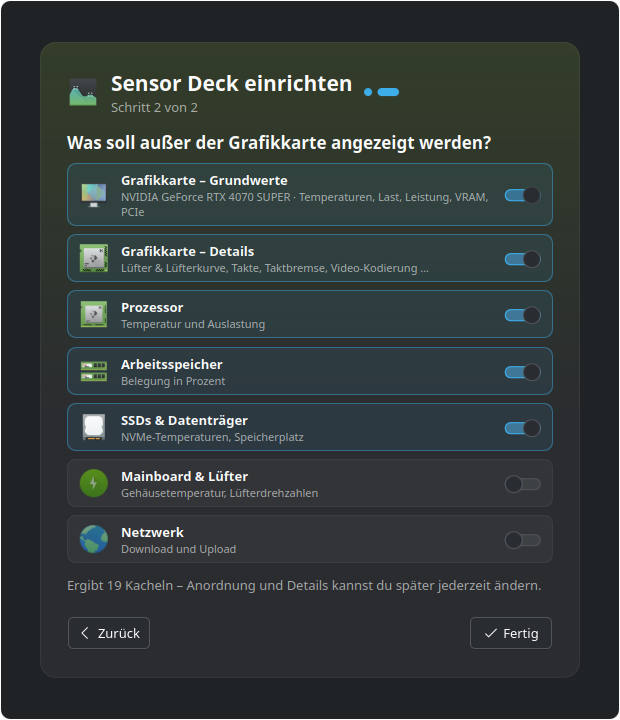
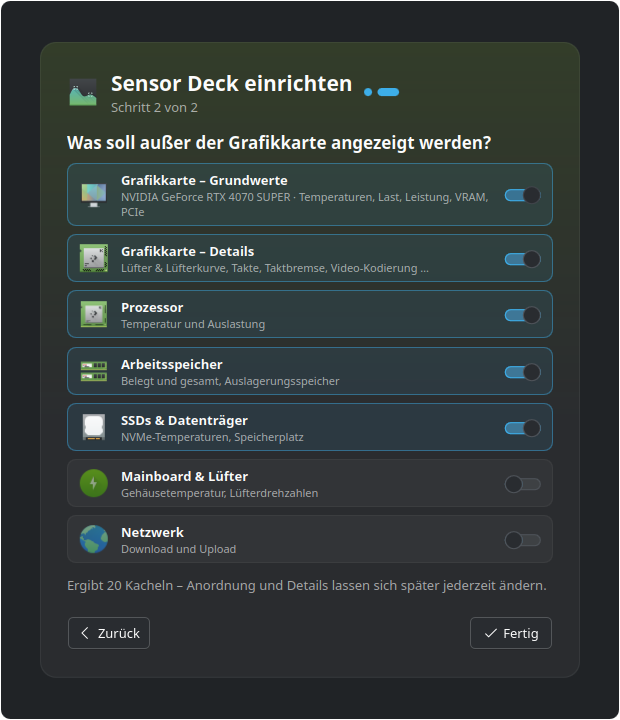
New screenshots; neutral wizard text, memory hint
- Screenshot rig simulates memory used/total, swap and the measured
  NVIDIA fan speeds; all eight README screenshots rendered again.
- Wizard: "Results in %1 tiles" still used the informal form in
  German, Spanish, Dutch and Polish (plural entries were missed).
- Wizard: memory hint "Usage in percent" → "Used and total, swap space".

Changed region(s): [[0.521, 0.7944, 0.8887, 0.825], [0.2452, 0.5194, 0.5516, 0.55]]

diff --git a/tools/screenshots/Demo.js b/tools/screenshots/Demo.js
@@ -25,6 +25,8 @@ function hwDiscover() {
         out.push(["GPU", "0000:05:00.0", "0x10de", "nvidia", "2", "1", "NVIDIA Corporation", "GA104 [GeForce RTX 3060 Ti]", ""].join(T));
     out.push(["NVME", "0000:03:00.0", "Samsung SSD 990 PRO 2TB"].join(T));
     out.push("GDDR6" + T + "1");
+    out.push(["NVFANS", "0", "2"].join(T));
+    if (multi) out.push(["NVFANS", "1", "2"].join(T));
     out.push(["DISTRO", "apt", "lm-sensors", "Demo"].join(T));
     out.push("LMTOOL" + T + "1");
     out.push("SENSORS");
@@ -86,6 +88,18 @@ function nvidiaStdout(keys) {
     return lines.join("\n");
 }
 
+// output of code/nvml-fans.py: measured fan speeds, two fans per card
+function nvmlFans() {
+    var T = "\t", out = [];
+    for (var i = 0; i < (multi ? 2 : 1); ++i) {
+        var pct = Math.round(gpu(i)["fan.speed"]);
+        var rpm = Math.round(pct * (i === 0 ? 31 : 28));
+        out.push(["FAN", i, 1, rpm + Math.round(j(8 + i, 12)), pct, pct].join(T));
+        out.push(["FAN", i, 2, rpm - 15 + Math.round(j(9 + i, 12)), pct, pct].join(T));
+    }
+    return out.join("\n") + "\n";
+}
+
 // output of code/pcie-info.sh for a card
 function pcieInfo(addr) {
     var second = multi && /05:00/.test(addr || "");
@@ -106,6 +120,10 @@ function sensor(id, german) {
     case "cpu/all/maximumTemperature": return { value: 61 + 9 * w(70, 0.5) + j(4, 1), unit: "°C", max: 100 };
     case "cpu/all/usage":              return { value: 32 + 22 * w(20, 1) + j(5, 6), unit: "%", max: 100 };
     case "memory/physical/usedPercent": return { value: 47 + 2 * w(200), unit: "%", max: 100 };
+    case "memory/physical/used":        return { value: 14.6 + 0.6 * w(200), unit: "GiB" };
+    case "memory/physical/total":       return { value: 31.3, unit: "GiB" };
+    case "memory/swap/used":            return { value: 0.3, unit: "GiB" };
+    case "memory/swap/total":           return { value: 8, unit: "GiB" };
     case "disk/all/usedPercent":        return { value: 63.4, unit: "%", max: 100 };
     case "network/all/download":        return { value: Math.max(0.1, 2.2 + 2.5 * w(15, 2) + j(6, 0.8)), unit: "MiB/s", max: 8 };
     case "network/all/upload":          return { value: Math.max(0.05, 0.35 + 0.25 * w(25) + j(7, 0.08)), unit: "MiB/s", max: 2 };

diff --git a/package/contents/ui/Hardware.js b/package/contents/ui/Hardware.js
@@ -226,7 +226,7 @@ function sensorSetupText(hw, translate) {
 var categories = [
     { key: "gpuDetails", label: tr("Graphics card – details"), hint: tr("Fans & fan curve, clocks, throttling, video encoding …"), icon: "preferences-system-performance", def: true },
     { key: "cpu",        label: tr("Processor"),            hint: tr("Temperature and usage"), icon: "cpu", def: true },
-    { key: "ram",        label: tr("Memory"),      hint: tr("Usage in percent"), icon: "memory", def: true },
+    { key: "ram",        label: tr("Memory"),      hint: tr("Used and total, swap space"), icon: "memory", def: true },
     { key: "storage",    label: tr("SSDs & drives"),   hint: tr("NVMe temperatures, disk space"), icon: "drive-harddisk", def: true },
     { key: "board",      label: tr("Mainboard & fans"),   hint: tr("Case temperature, fan speeds"), icon: "preferences-system-power-management", def: false },
     { key: "network",    label: tr("Network"),             hint: tr("Download and upload"), icon: "applications-internet", def: false },

diff --git a/tools/screenshots/patch.py b/tools/screenshots/patch.py
@@ -53,6 +53,8 @@ edit("NvidiaProvider.qml", [
     ('import "NvidiaKeys.js" as NK', 'import "NvidiaKeys.js" as NK\nimport "Demo.js" as Demo'),
     ("onTriggered: provider._exec.connectSource(provider.cmd)",
      "onTriggered: provider._exec.newData(\"demo\", { \"exit code\": 0, \"stdout\": Demo.nvidiaStdout(provider.queryKeys) })"),
+    ("onTriggered: provider._fanExec.connectSource(\"python3 -I '\" + provider.fanScript + \"'\")",
+     "onTriggered: provider._fanExec.newData(\"demo\", { \"exit code\": 0, \"stdout\": Demo.nvmlFans() })"),
 ])
 edit("HardwareProbe.qml", [
     ('import "Hardware.js" as Hardware', 'import "Hardware.js" as Hardware\nimport "Demo.js" as Demo'),
